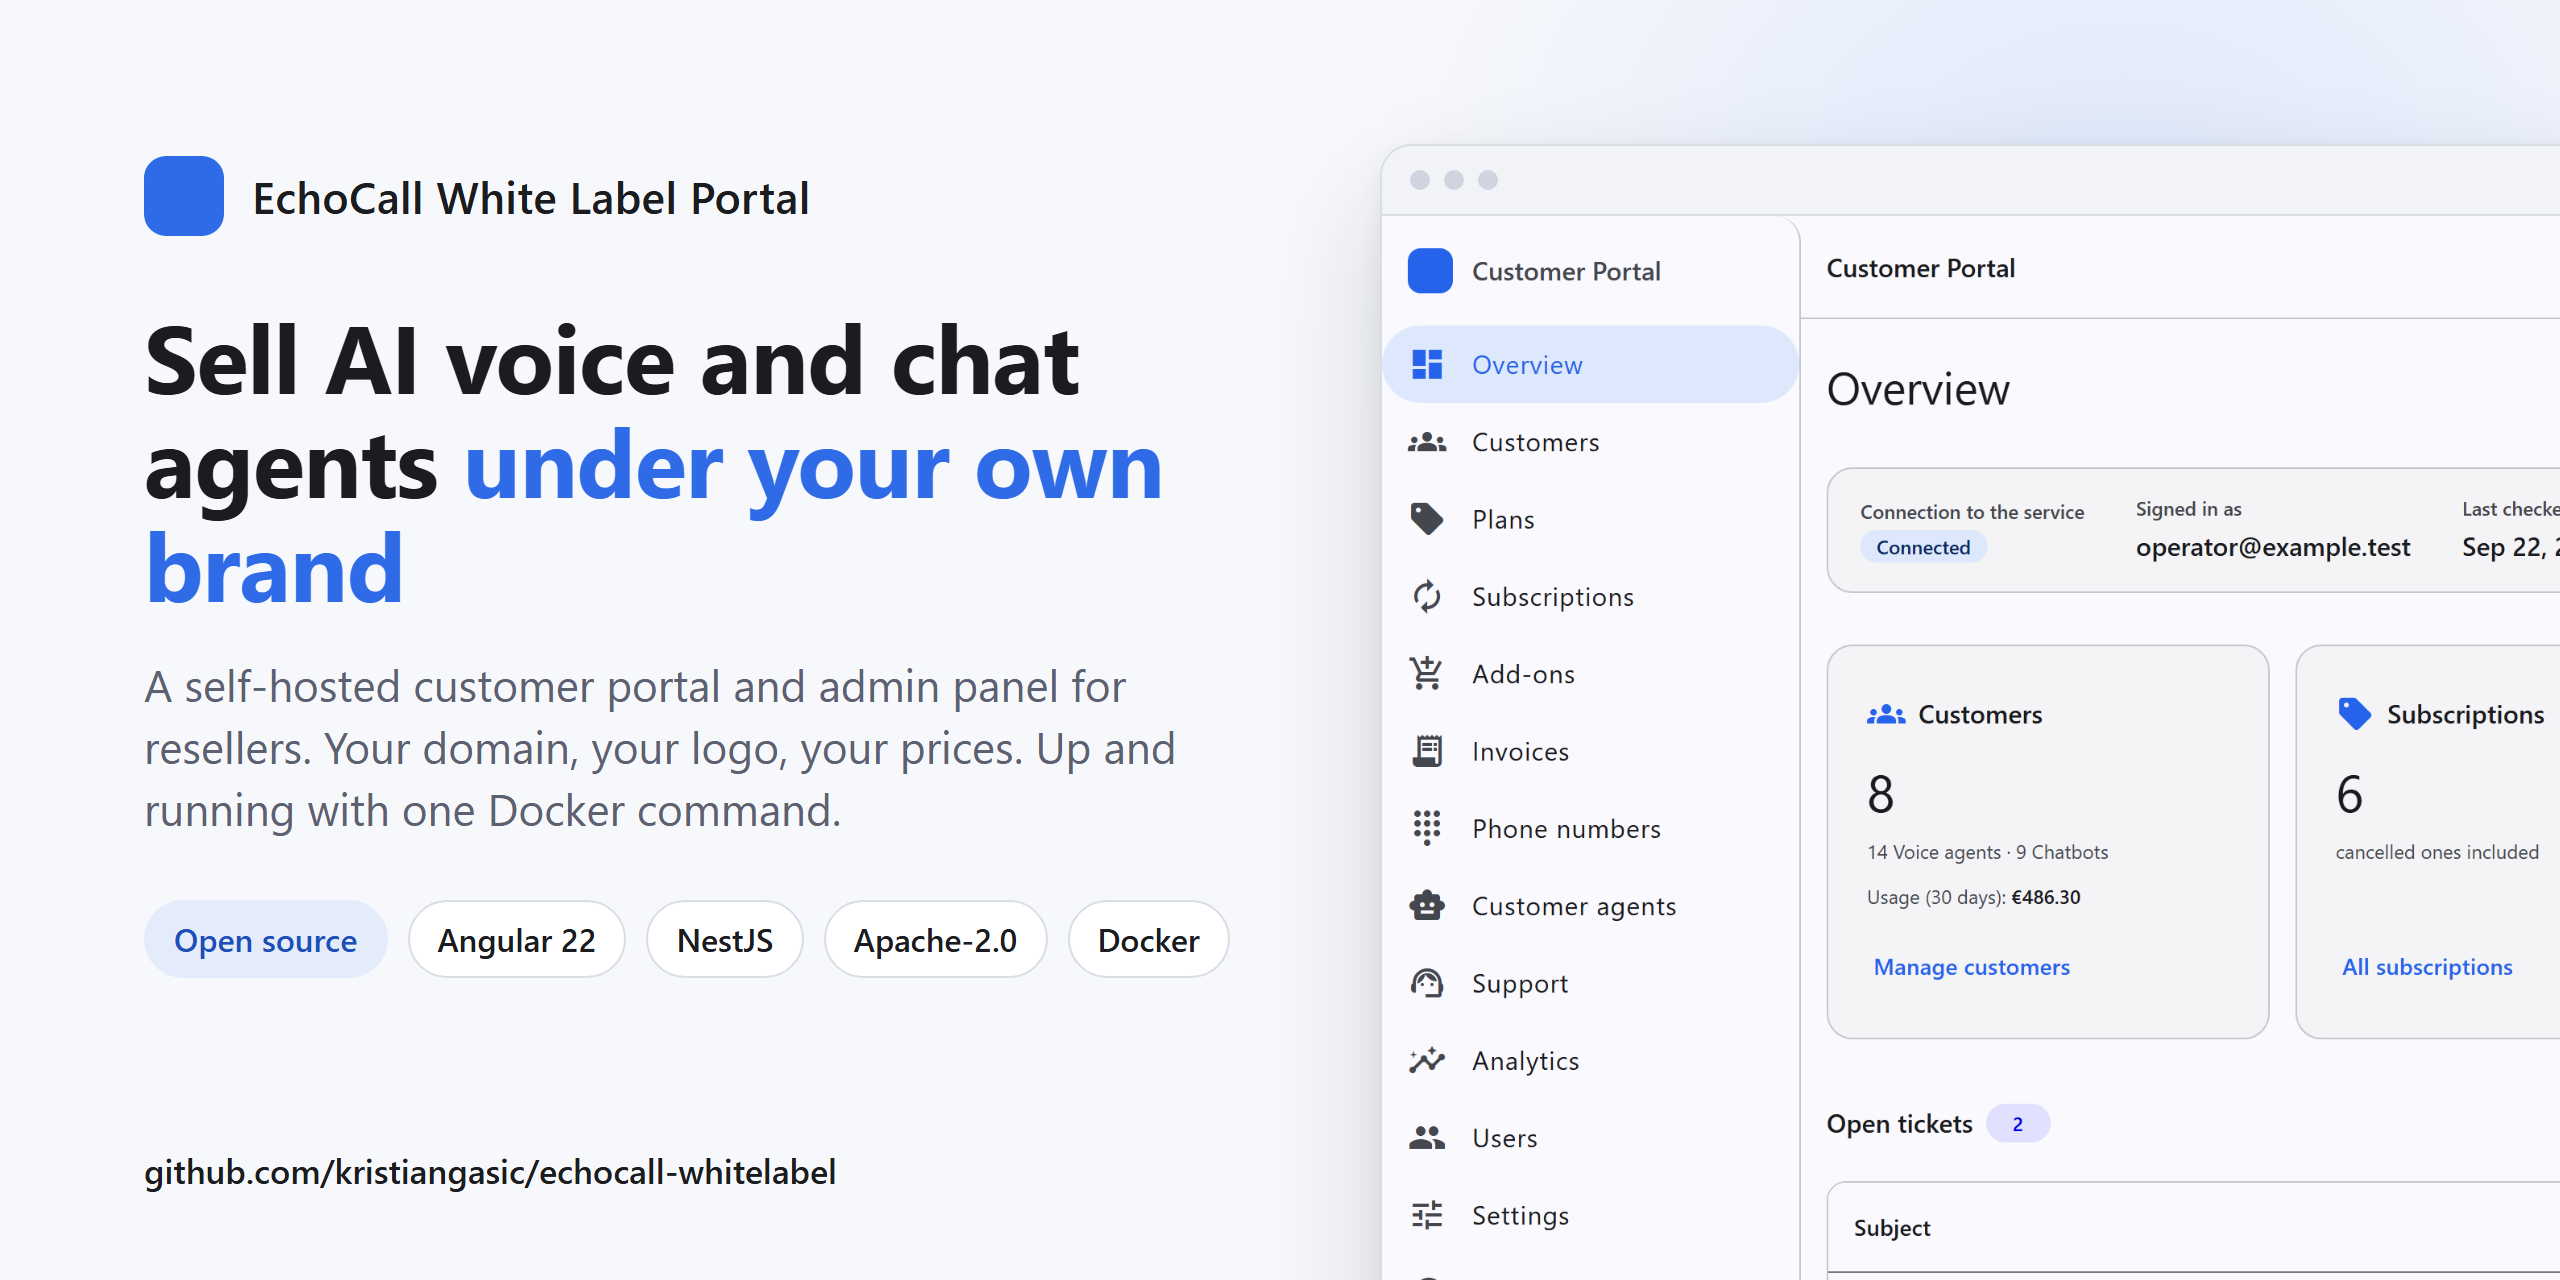
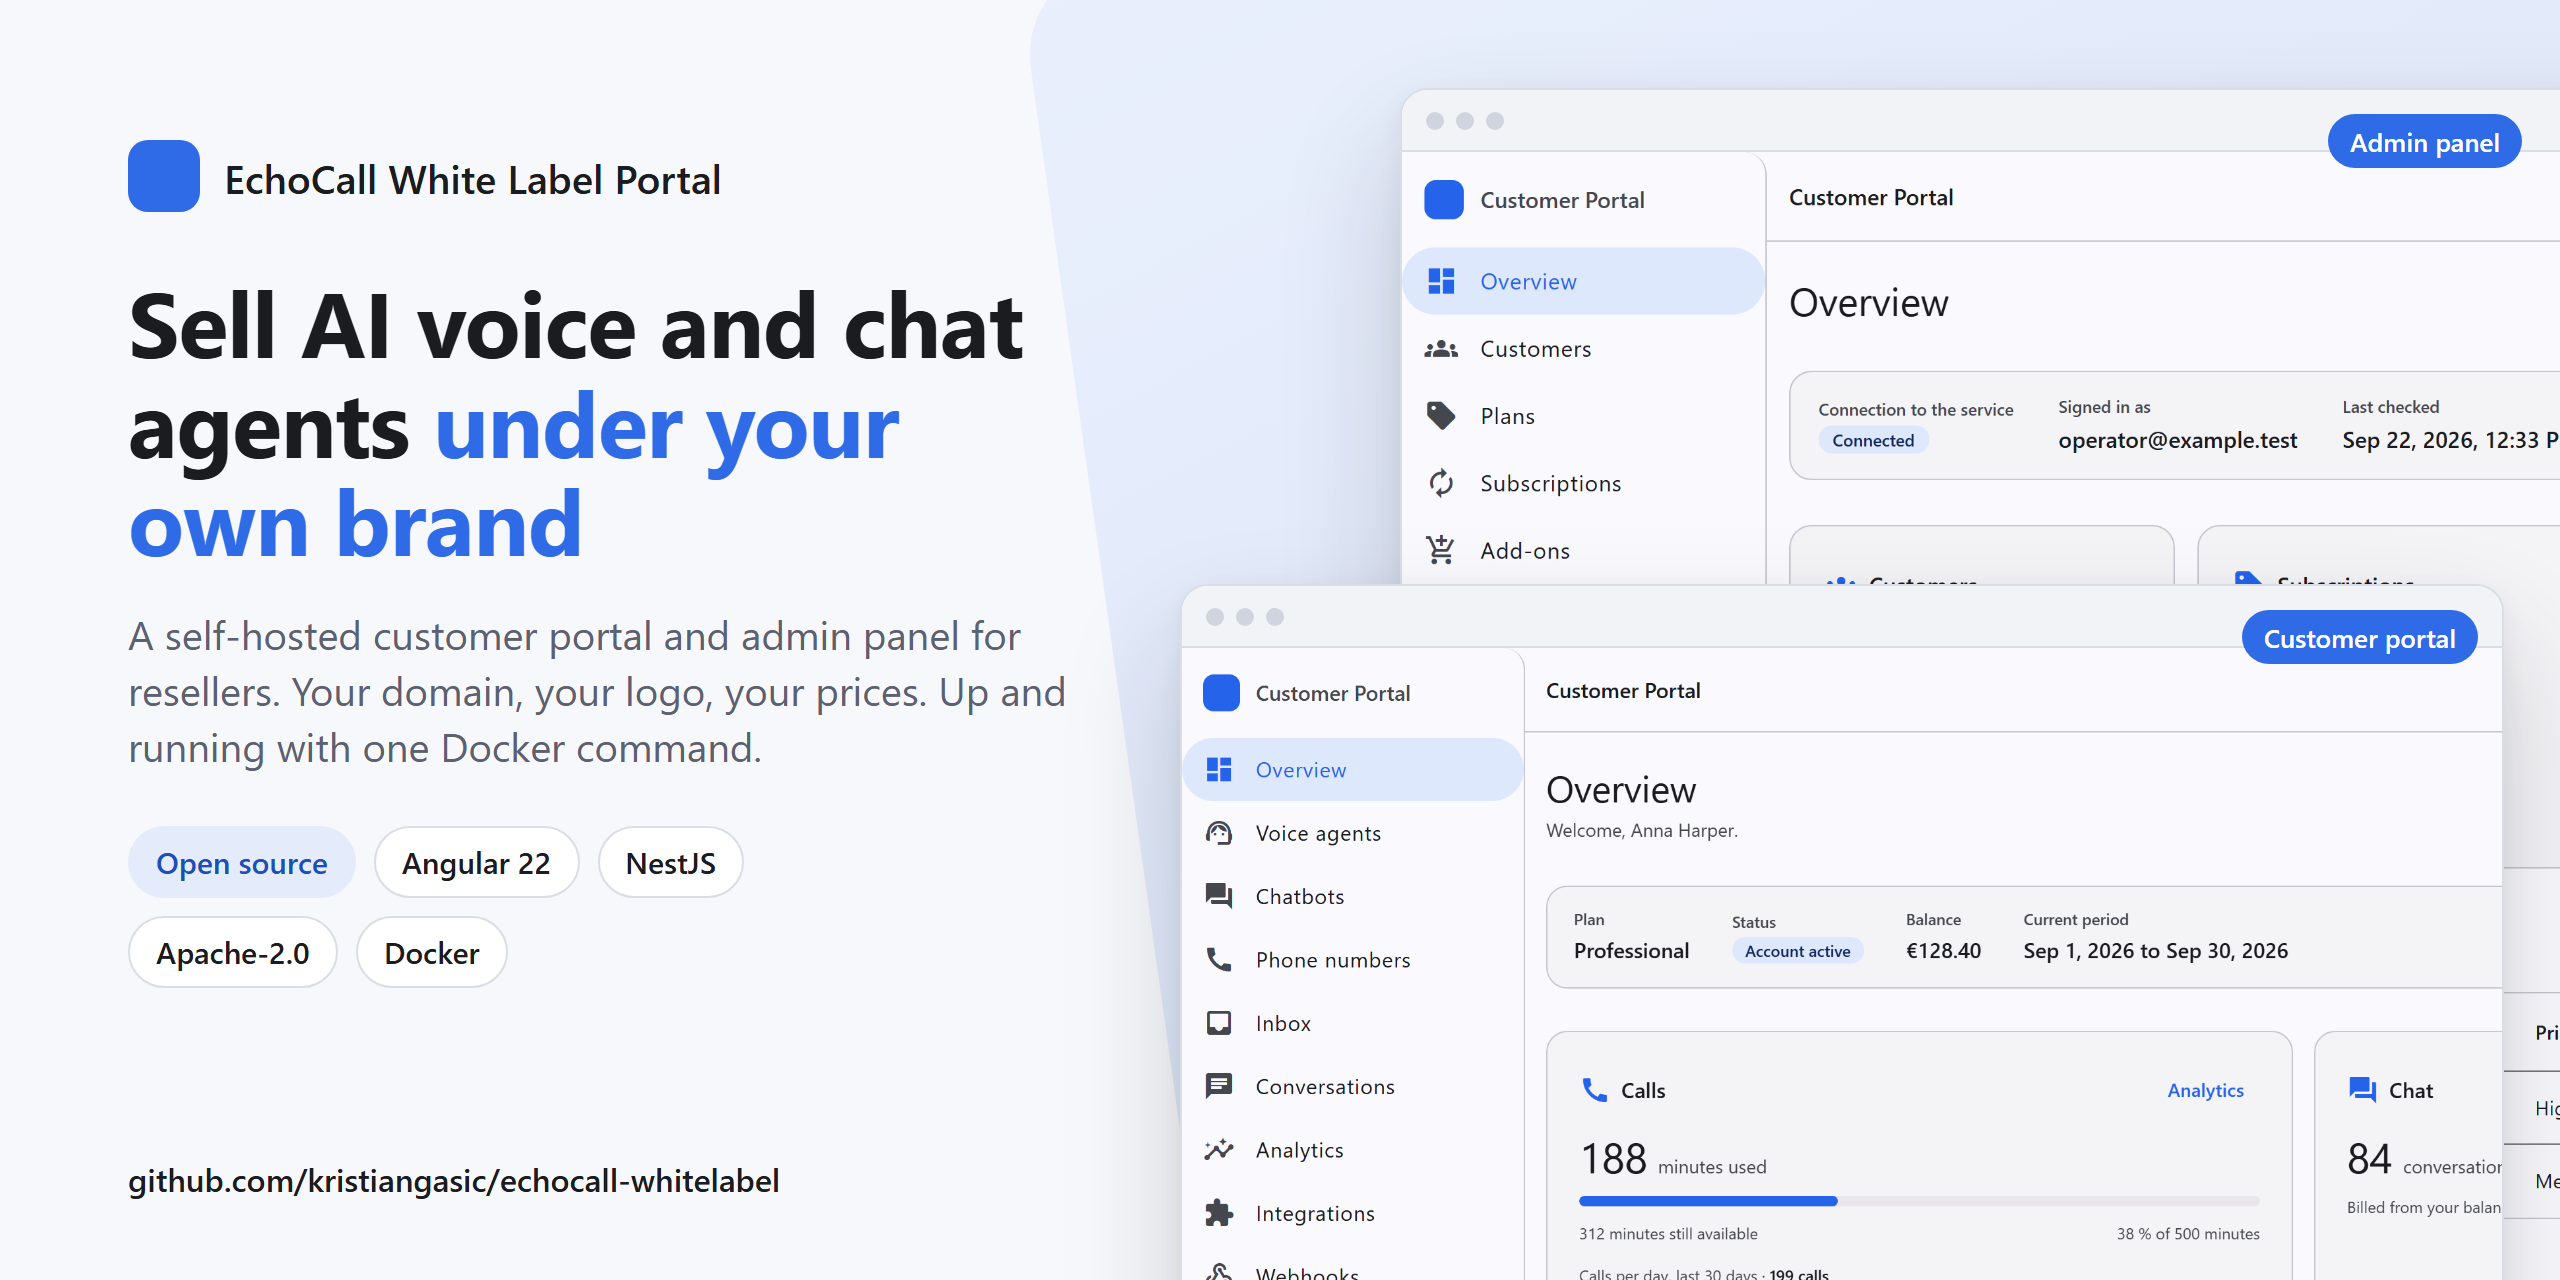
docs: fill the social preview card with both portal screenshots
The card GitHub shows for a shared repository link now carries the admin
overview and the customer dashboard as two staggered browser frames next to
the headline. The template references the screenshots by relative path, so
it also previews in a plain browser, and the render script opens it via a
file URL instead of setContent.

diff --git a/docs/images/social-preview.html b/docs/images/social-preview.html
@@ -3,6 +3,8 @@
   <head>
     <meta charset="utf-8" />
     <title>Social preview</title>
+    <!-- Template for docs/images/social-preview.png. Open it in a browser to check it,
+         `npm run social-preview` renders the 1280x640 card at 2x. -->
     <style>
       :root {
         --ink: #1b1c1f;
@@ -26,42 +28,43 @@
         position: relative;
         width: 1280px;
         height: 640px;
+        overflow: hidden;
       }
-      .glow {
+      .wash {
         position: absolute;
-        right: -160px;
-        top: -220px;
-        width: 760px;
-        height: 760px;
-        border-radius: 50%;
-        background: radial-gradient(closest-side, #dbe6fb 0%, rgba(219, 230, 251, 0) 100%);
+        left: 560px;
+        top: -80px;
+        width: 900px;
+        height: 800px;
+        border-radius: 48px;
+        background: linear-gradient(160deg, #e9effc 0%, #dfe8fa 55%, #d3dff8 100%);
+        transform: rotate(-8deg);
       }
       .text {
         position: absolute;
-        left: 72px;
-        top: 78px;
-        width: 560px;
+        left: 64px;
+        top: 70px;
+        width: 470px;
       }
       .brand {
         display: flex;
         align-items: center;
-        gap: 14px;
-        margin-bottom: 34px;
+        gap: 12px;
+        margin-bottom: 30px;
       }
       .brand .mark {
-        width: 40px;
-        height: 40px;
-        border-radius: 11px;
+        width: 36px;
+        height: 36px;
+        border-radius: 10px;
         background: var(--blue);
       }
       .brand span {
-        font-size: 22px;
+        font-size: 20px;
         font-weight: 600;
-        letter-spacing: 0.2px;
       }
       h1 {
-        margin: 0 0 20px;
-        font-size: 48px;
+        margin: 0 0 18px;
+        font-size: 46px;
         line-height: 1.08;
         font-weight: 700;
         letter-spacing: -0.6px;
@@ -71,82 +74,105 @@
         color: var(--blue);
       }
       p {
-        margin: 0 0 30px;
-        font-size: 22px;
+        margin: 0 0 26px;
+        font-size: 20px;
         line-height: 1.4;
         color: var(--muted);
       }
       .chips {
         display: flex;
         flex-wrap: wrap;
-        gap: 10px;
+        gap: 9px;
+        width: 400px;
       }
       .chip {
-        padding: 8px 14px;
+        padding: 7px 13px;
         border-radius: 999px;
         background: #fff;
         border: 1px solid var(--line);
-        font-size: 16px;
+        font-size: 15px;
         font-weight: 600;
-        color: var(--ink);
       }
       .chip.blue {
         background: var(--blue-soft);
         border-color: var(--blue-soft);
         color: #1e4fb8;
       }
+      .foot {
+        position: absolute;
+        left: 64px;
+        bottom: 40px;
+        width: 470px;
+        font-size: 16px;
+        font-weight: 600;
+      }
       .shot {
         position: absolute;
-        left: 690px;
-        top: 72px;
-        width: 900px;
-        height: 620px;
-        border-radius: 16px;
+        border-radius: 14px;
         background: #fff;
         border: 1px solid var(--line);
-        box-shadow:
-          0 30px 60px rgba(27, 28, 31, 0.16),
-          0 4px 12px rgba(27, 28, 31, 0.06);
         overflow: hidden;
+        box-shadow:
+          0 30px 60px rgba(27, 28, 31, 0.18),
+          0 4px 12px rgba(27, 28, 31, 0.06);
       }
-      .bar {
-        height: 34px;
+      .shot .bar {
+        height: 30px;
         background: #f1f3f7;
         border-bottom: 1px solid var(--line);
         display: flex;
         align-items: center;
-        gap: 7px;
-        padding-left: 14px;
+        gap: 6px;
+        padding-left: 12px;
       }
-      .bar i {
-        width: 10px;
-        height: 10px;
+      .shot .bar i {
+        width: 9px;
+        height: 9px;
         border-radius: 50%;
         background: #cfd4de;
         display: block;
       }
       .shot img {
         display: block;
-        width: 1160px;
         height: auto;
       }
-      .foot {
-        position: absolute;
-        left: 72px;
-        bottom: 44px;
-        width: 590px;
-        font-size: 17px;
-        color: var(--muted);
+      .admin {
+        left: 700px;
+        top: 44px;
+        width: 700px;
+        height: 640px;
       }
-      .foot b {
-        color: var(--ink);
+      .admin img {
+        width: 1010px;
+      }
+      .admin .tag {
+        right: 140px;
+      }
+      .customer {
+        left: 590px;
+        top: 292px;
+        width: 660px;
+        height: 420px;
+      }
+      .customer img {
+        width: 950px;
+      }
+      .tag {
+        position: absolute;
+        top: 12px;
+        right: 12px;
+        padding: 5px 11px;
+        border-radius: 999px;
+        font-size: 13px;
         font-weight: 600;
+        background: var(--blue);
+        color: #fff;
       }
     </style>
   </head>
   <body>
     <div class="card">
-      <div class="glow"></div>
+      <div class="wash"></div>
       <div class="text">
         <div class="brand">
           <div class="mark"></div>
@@ -163,11 +189,15 @@
           ><span class="chip">Docker</span>
         </div>
       </div>
-      <div class="shot">
+      <div class="shot admin">
         <div class="bar"><i></i><i></i><i></i></div>
-        <img src="SHOT_SRC" alt="" />
+        <img src="admin-overview.png" alt="" /><span class="tag">Admin panel</span>
       </div>
-      <div class="foot"><b>github.com/kristiangasic/echocall-whitelabel</b></div>
+      <div class="shot customer">
+        <div class="bar"><i></i><i></i><i></i></div>
+        <img src="customer-dashboard.png" alt="" /><span class="tag">Customer portal</span>
+      </div>
+      <div class="foot">github.com/kristiangasic/echocall-whitelabel</div>
     </div>
   </body>
 </html>
